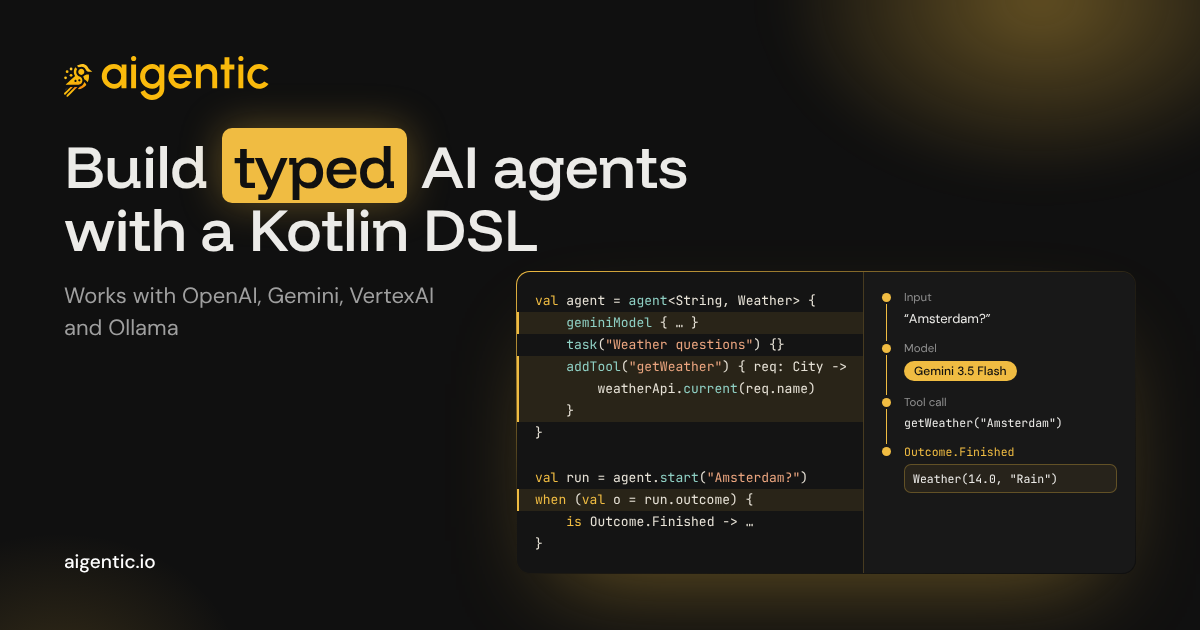
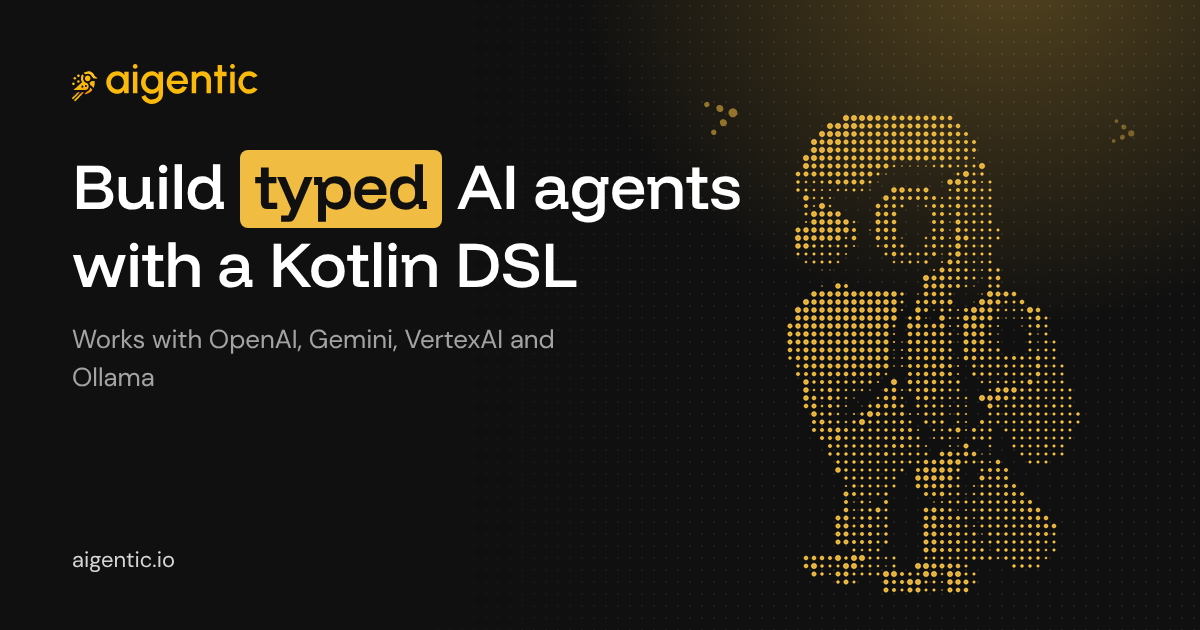
feat: replace the remaining puzzle-piece artwork with the flock
- Vision and blog backgrounds keep the amber glow, but small flocks in
  V formation now fly where the puzzle pieces were, over a fading dot
  grid. WebP instead of PNG: 74 KB instead of about 430 KB each.
- The start section card draws its glow and dot grid in CSS, so it
  scales with the card instead of stretching an image.
- The social share image shows the halftone mascot next to the same
  headline.
- Remove blog-detail-bg.png, which nothing used.

diff --git a/site/src/css/custom.css b/site/src/css/custom.css
@@ -436,8 +436,14 @@ table tr:nth-child(2n) {
   z-index: -1;
   left: 0;
   top: 0;
-  background-image: url("/img/footer-card-bg.webp");
-  background-size: cover;
+  background-image:
+    radial-gradient(ellipse 60% 70% at 0% 100%, rgba(240, 188, 66, 0.1), transparent 70%),
+    radial-gradient(ellipse 45% 55% at 100% 0%, rgba(240, 188, 66, 0.06), transparent 70%),
+    radial-gradient(rgba(255, 255, 255, 0.05) 1px, transparent 1.3px);
+  background-size:
+    auto,
+    auto,
+    12px 12px;
 }
 
 .footerLogoLink_DDai {

diff --git a/site/src/theme/BlogPostPage/blogDetail.module.css b/site/src/theme/BlogPostPage/blogDetail.module.css
@@ -1,7 +1,7 @@
 .blogMain {
   color: white;
   padding: 210px 0px;
-  background-image: url("/img/blog-bg.png");
+  background-image: url("/img/blog-bg.webp");
   background-repeat: no-repeat;
   background-size: 100%;
   background-position: center top;

diff --git a/site/src/theme/BlogListPage/blogs.module.css b/site/src/theme/BlogListPage/blogs.module.css
@@ -1,6 +1,6 @@
 .blogMain {
   padding: 210px 0px;
-  background-image: url("/img/blog-bg.png");
+  background-image: url("/img/blog-bg.webp");
   background-repeat: no-repeat;
   background-size: 100%;
   background-position: center top;

diff --git a/site/src/pages/vision.module.css b/site/src/pages/vision.module.css
@@ -1,6 +1,6 @@
 .visionMain {
   background-color: #101010;
-  background-image: url("/img/vision-bg.png");
+  background-image: url("/img/vision-bg.webp");
   background-size: 100%;
   background-repeat: no-repeat;
   color: white;
